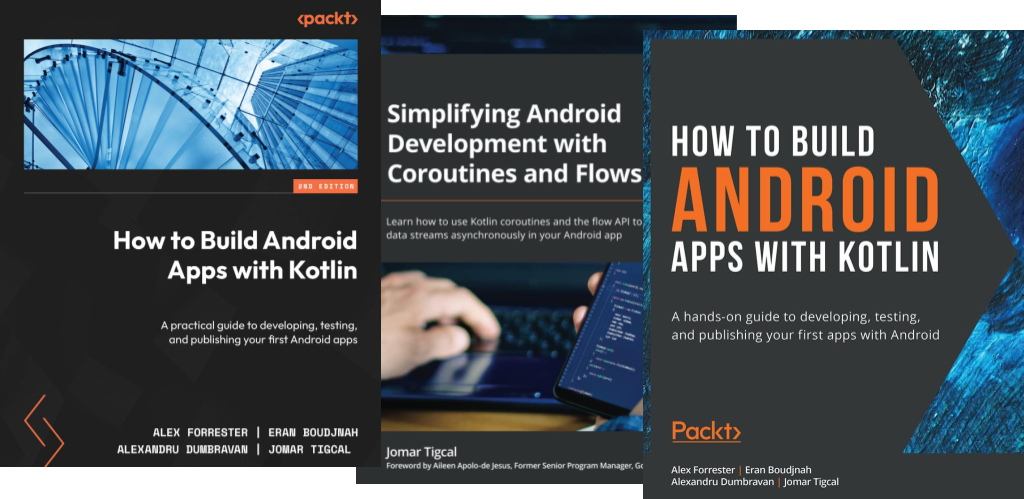
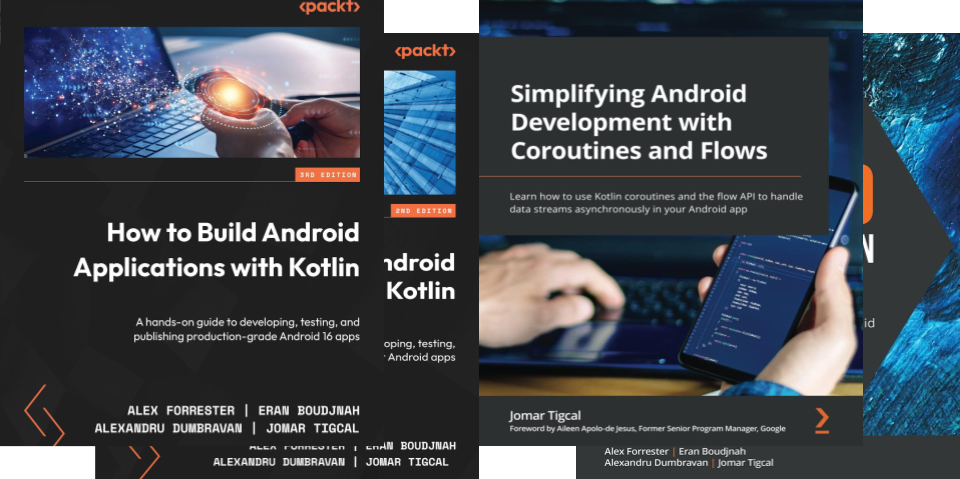
Adding the third edition of How to Build Android Apps with Kotlin in the list of books

diff --git a/books.html b/books.html
@@ -94,6 +94,22 @@
         <div class="mdc-top-app-bar--fixed-adjust" id="main-content">
             <div class="mdc-card mdc-card--outlined">
                 <div>
+                    <h2 class="mdc-typography mdc-typography--headline6">How to Build Android Applications with Kotlin (Third Edition)</h2>
+                    <p>How to Build Android Applications with Kotlin: A hands-on guide to developing, testing, and publishing production-grade Android 16 apps</p>
+                    <div style="text-align: center;font-style:italic"><img src="images/books/How to Build Android Apps with Kotlin 3.jpg" style="border: 0px; margin: auto;width:35%;" /><br /><br /></div>
+                    <p>Written by four veteran developers with 60+ years of collective experience, this updated third edition will jumpstart your Android development journey, focusing on Kotlin libraries and Jetpack Compose, Google’s powerful declarative UI framework.</p>
+                    <p>You’ll learn the fundamentals of app development, enabling you to use Android Studio, as well as get to grips with Jetpack Compose to create your first screens, build apps to run them on virtual devices through guided exercises, and implement Jetpack Compose’s layout groups to make the most of lists, images, and maps. The book has been updated with Kotlin’s powerful networking and coroutines libraries to help you fetch data in the background from a web service and manage displaying the data using Kotlin flows. You’ll learn about testing, creating clean architecture, and persisting data, as well as exploring the dependency injection pattern and learning how to publish your apps on the Google Play Store. </p>
+                    <p></p>
+                </div>
+                <div class="mdc-card__actions">
+                    <div class="mdc-card__action-buttons">
+                        <a href="https://www.packtpub.com/en-us/product/how-to-build-android-applications-with-kotlin-9781835882764" class="mdc-button mdc-card__action mdc-card__action--button">Buy on Packt</a>
+                        <a href="https://amzn.to/3UINsPw" class="mdc-button mdc-card__action mdc-card__action--button">Buy on Amazon</a>
+                    </div>
+                </div>
+            </div>            
+            <div class="mdc-card mdc-card--outlined">
+                <div>
                     <h2 class="mdc-typography mdc-typography--headline6">How to Build Android Apps with Kotlin (Second Edition)</h2>
                     <p>How to Build Android Apps with Kotlin: A practical guide to developing, testing, and publishing your first Android apps</p>
                     <div style="text-align: center;font-style:italic"><img src="images/books/How to Build Android Apps with Kotlin 2.png" style="border: 0px; margin: auto;width:35%;" /><br /><br /></div>
